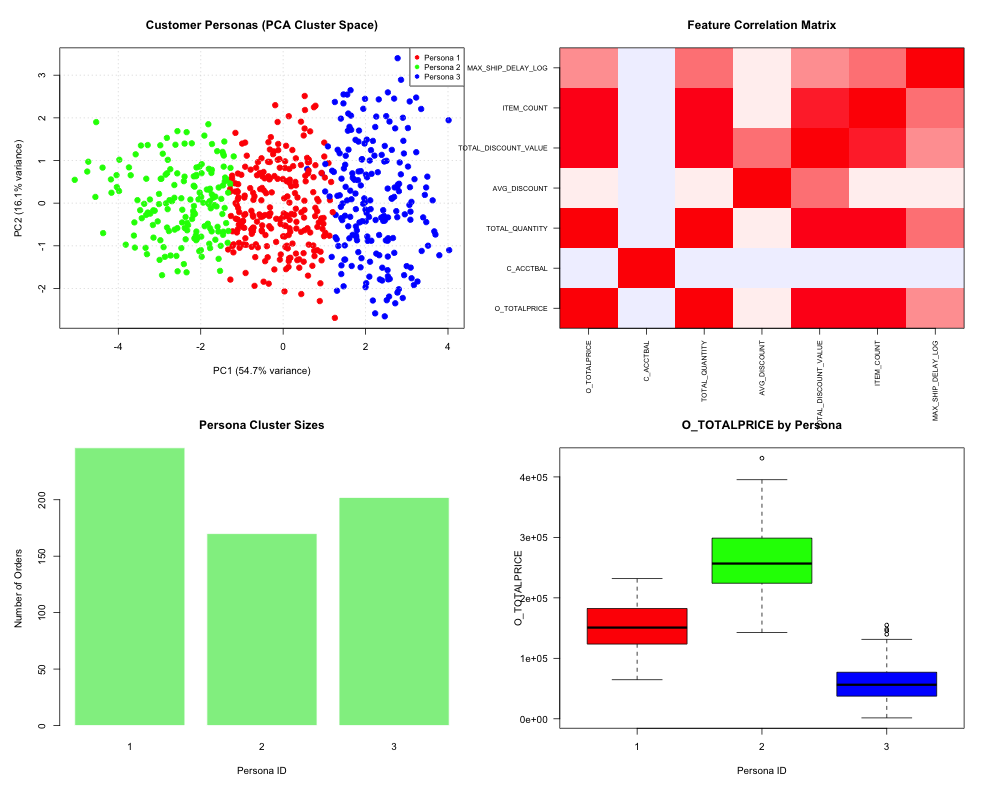
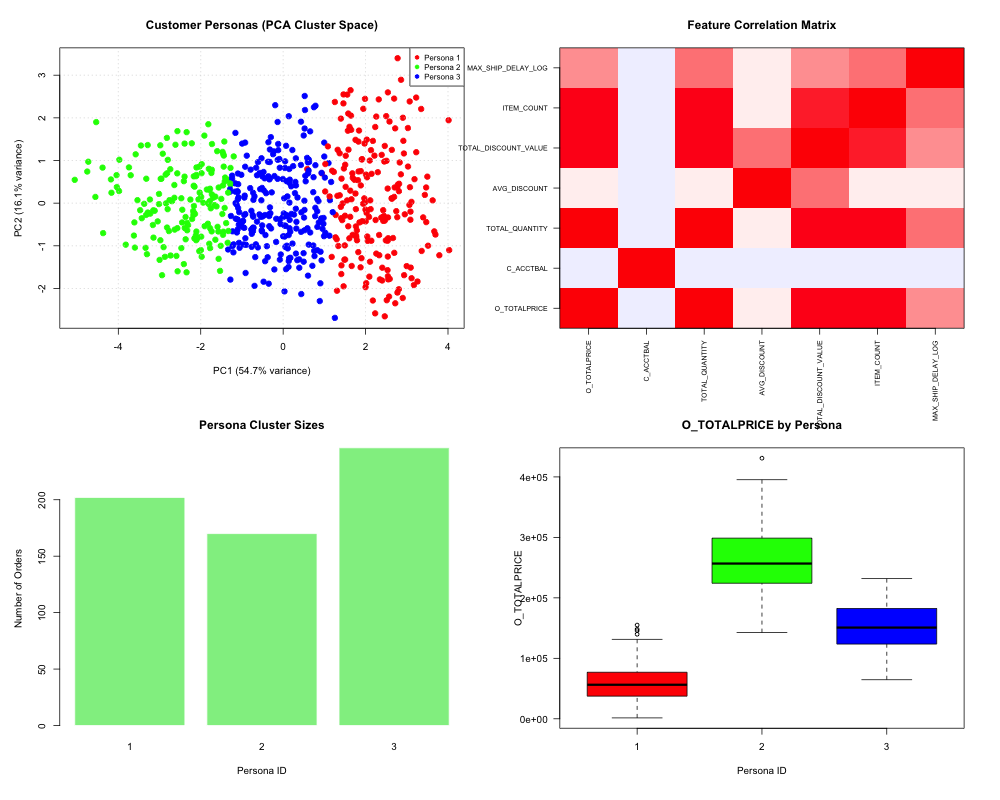
Improve graphic introduction phrasing to use Figure 1 callout conventions

diff --git a/gen/customer_orders_happy_audit_report.md b/gen/customer_orders_happy_audit_report.md
@@ -1,6 +1,6 @@
 # Advanced SQL Data Quality and Behavior Analysis Lab Report: customer_orders_happy
 
-**Report Generated on:** 2026-07-21 08:15:35.662201
+**Report Generated on:** 2026-07-21 08:28:25.91148
 **Source Dataset:** `customer_orders_happy.csv`
 **Auditor Classification Status:** DANGER / FAIL 🔴
 
@@ -126,17 +126,17 @@ We standardized the numeric metrics and fitted a [K-Means clustering algorithm](
 
 | Persona Cluster | Order Count | Percentage (%) |
 |---|---|---|
-| **Cluster 1** | 246 | 39.81% |
+| **Cluster 1** | 202 | 32.69% |
 | **Cluster 2** | 170 | 27.51% |
-| **Cluster 3** | 202 | 32.69% |
+| **Cluster 3** | 246 | 39.81% |
 
 
 ## 4. Visualizations Dashboard
-A 2x2 data quality and persona visualization dashboard was saved to disk:
+Figure 1 presents the 2x2 data quality and customer persona visualization dashboard:
 
-![PCA Persona Dashboard](customer_orders_happy_validation_plot.png)
+![Figure 1: PCA Persona Dashboard](customer_orders_happy_validation_plot.png)
 
-### Interpretation of Plots:
+### Interpretation of Figure 1:
 1. **[PCA](https://en.wikipedia.org/wiki/Principal_component_analysis) Cluster Space**: Represents the first two principal components. Good separation between color groups indicates distinct personas. If the points form tight, overlapping lines or grids, it indicates identical data replication bugs.
 2. **Correlation Heatmap**: Pairwise correlations between metrics. Strong colors indicate potential redundant attributes or duplicate join bugs.
 3. **Persona Cluster Sizes**: Frequency counts across the discovered personas.

diff --git a/gen/customer_orders_sad_audit_report.md b/gen/customer_orders_sad_audit_report.md
@@ -1,6 +1,6 @@
 # Advanced SQL Data Quality and Behavior Analysis Lab Report: customer_orders_sad
 
-**Report Generated on:** 2026-07-21 08:15:36.75237
+**Report Generated on:** 2026-07-21 08:28:26.993906
 **Source Dataset:** `customer_orders_sad.csv`
 **Auditor Classification Status:** DANGER / FAIL 🔴
 
@@ -105,11 +105,11 @@ We standardized the numeric metrics and fitted a [K-Means clustering algorithm](
 
 
 ## 4. Visualizations Dashboard
-A 2x2 data quality and persona visualization dashboard was saved to disk:
+Figure 1 presents the 2x2 data quality and customer persona visualization dashboard:
 
-![PCA Persona Dashboard](customer_orders_sad_validation_plot.png)
+![Figure 1: PCA Persona Dashboard](customer_orders_sad_validation_plot.png)
 
-### Interpretation of Plots:
+### Interpretation of Figure 1:
 1. **[PCA](https://en.wikipedia.org/wiki/Principal_component_analysis) Cluster Space**: Represents the first two principal components. Good separation between color groups indicates distinct personas. If the points form tight, overlapping lines or grids, it indicates identical data replication bugs.
 2. **Correlation Heatmap**: Pairwise correlations between metrics. Strong colors indicate potential redundant attributes or duplicate join bugs.
 3. **Persona Cluster Sizes**: Frequency counts across the discovered personas.
